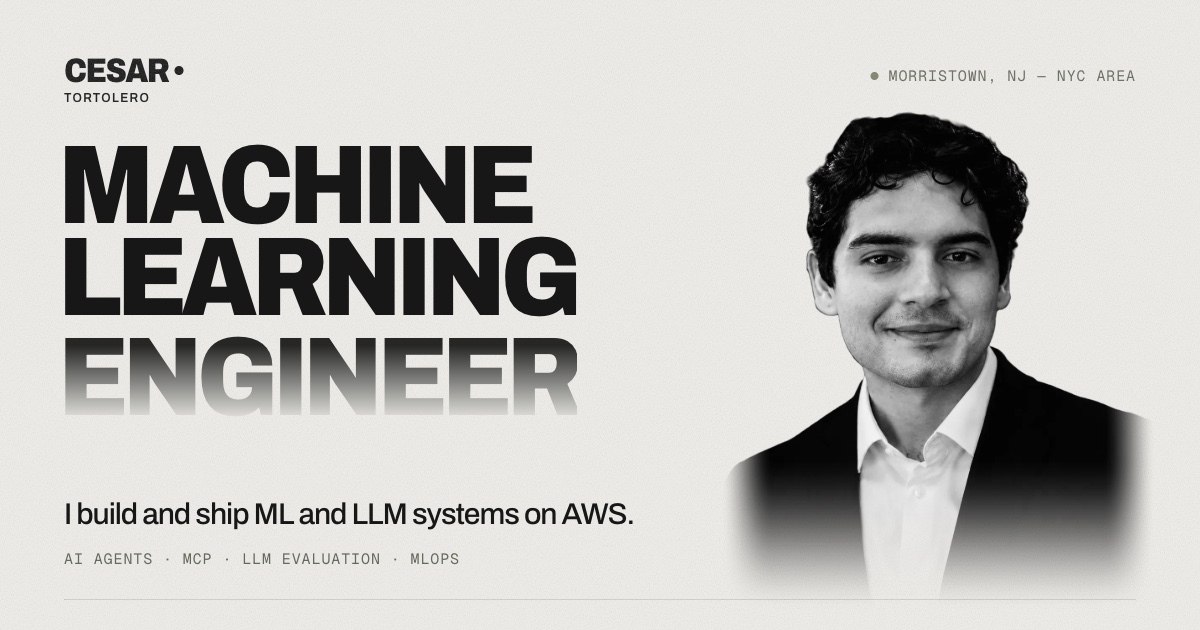
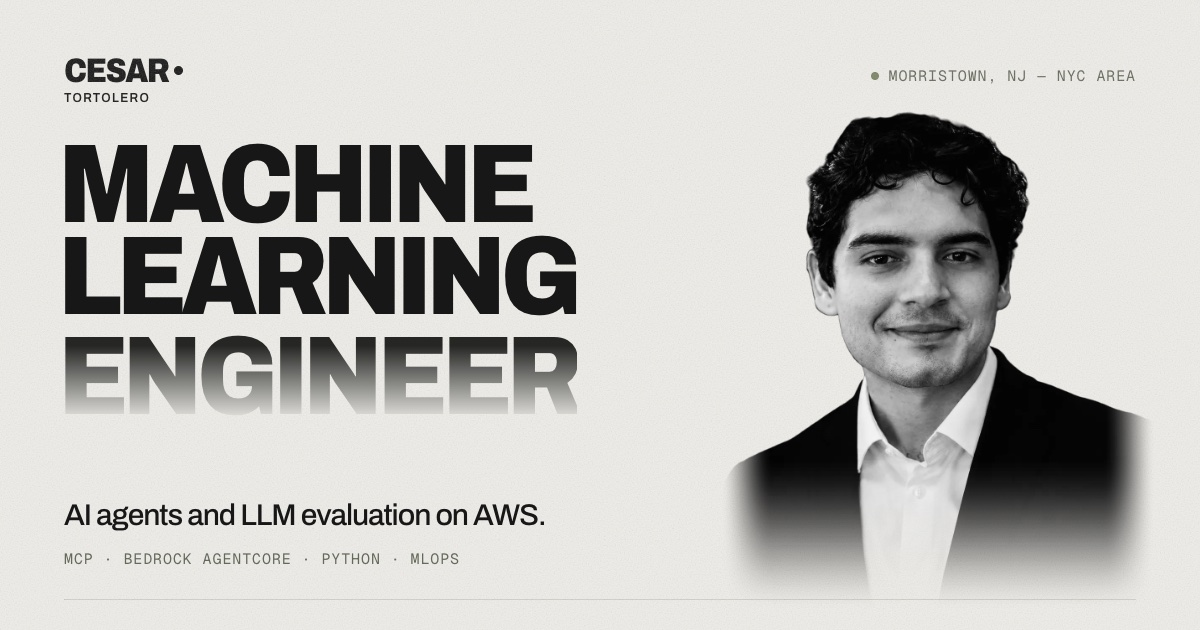
Ship one stylesheet per page from the build, stop the About window and restored scroll positions from shifting the layout on deep links and reloads, and refresh the social card for the new hero

diff --git a/web/index.html b/web/index.html
@@ -3,7 +3,7 @@
 <head>
   <meta charset="UTF-8">
   <meta name="viewport" content="width=device-width, initial-scale=1">
-  <meta http-equiv="Content-Security-Policy" content="default-src 'self'; script-src 'self' 'sha256-G8slze0J/lL2JyIAFipFdQe1FVn2ZNm4U1dTs9klNOc='; style-src 'self'; img-src 'self' data:; font-src 'self'; connect-src 'self'; manifest-src 'self'; media-src 'none'; object-src 'none'; frame-src 'none'; worker-src 'none'; base-uri 'none'; form-action 'none'; upgrade-insecure-requests">
+  <meta http-equiv="Content-Security-Policy" content="default-src 'self'; script-src 'self' 'sha256-LPlC6JOsCNvlvxcLDI4qjZ2AFWltlvfHGk8cS8O43sg='; style-src 'self'; img-src 'self' data:; font-src 'self'; connect-src 'self'; manifest-src 'self'; media-src 'none'; object-src 'none'; frame-src 'none'; worker-src 'none'; base-uri 'none'; form-action 'none'; upgrade-insecure-requests">
   <meta name="referrer" content="strict-origin-when-cross-origin">
   <meta name="theme-color" content="#eeede8">
   <meta name="description" content="Cesar Tortolero is a Machine Learning Engineer in Morristown, NJ (NYC area) who builds AI agents, MCP integrations and LLM evaluation on AWS Bedrock AgentCore, plus serverless Python and MLOps.">
@@ -16,7 +16,7 @@
   <meta property="og:image:type" content="image/jpeg">
   <meta property="og:image:width" content="1200">
   <meta property="og:image:height" content="630">
-  <meta property="og:image:alt" content="Cesar Tortolero, Machine Learning Engineer. Builds and ships ML and LLM systems on AWS.">
+  <meta property="og:image:alt" content="Cesar Tortolero, Machine Learning Engineer. AI agents and LLM evaluation on AWS.">
   <meta property="profile:first_name" content="Cesar">
   <meta property="profile:last_name" content="Tortolero">
   <meta name="twitter:card" content="summary_large_image">
@@ -52,17 +52,27 @@
   // tour plays once (entrance.js marks the visit "seen" as it starts), never
   // under reduced motion, on a deep link or on back/forward.
   // app.js follows the decision recorded in data-tour.
+  // A reload or back/forward puts the old scroll position back before app.js
+  // has laid the page out (the explorer, charts and timeline change section
+  // heights), which read as a layout shift: the page stays hidden
+  // (html[data-restoring], styles.css) until app.js is done, 1.5 s at most.
   (() => {
     const root = document.documentElement;
     let play = false;
+    let restoring = false;
     try {
+      const nav = performance.getEntriesByType?.('navigation')?.[0];
+      restoring = nav?.type === 'reload' || nav?.type === 'back_forward';
       const key = 'cesar:portfolio:agentic-intro:v1';
       const seen = localStorage.getItem(key) === 'seen';
       localStorage.setItem(`${key}:probe`, '1'); localStorage.removeItem(`${key}:probe`);
-      const nav = performance.getEntriesByType?.('navigation')?.[0];
       play = !(seen || matchMedia('(prefers-reduced-motion: reduce)').matches || (location.hash && location.hash !== '#home') || nav?.type === 'back_forward');
     } catch { play = false; }
     root.dataset.tour = play ? 'play' : 'skip';
+    if (restoring && !play) {
+      root.dataset.restoring = '';
+      setTimeout(() => delete root.dataset.restoring, 1500);
+    }
     if (!play) return;
     root.classList.add('agentic-pending');
     const link = document.createElement('link'); link.rel = 'modulepreload'; link.href = './entrance.js'; document.head.append(link);

diff --git a/tests/entrance-loading.test.js b/tests/entrance-loading.test.js
@@ -47,9 +47,13 @@ function runHeadScript(source, { seen, reducedMotion, storageAvailable, hash, na
   const root = { dataset: {}, classList: { add: name => classes.add(name) } };
   const document = { documentElement: root, createElement: () => ({}), head: { append: node => appended.push(node) } };
   const performance = { getEntriesByType: () => (navigationType ? [{ type: navigationType }] : []) };
-  new Function('document', 'localStorage', 'matchMedia', 'location', 'performance', source)(
-    document, localStorage, () => ({ matches: reducedMotion }), { hash }, performance);
-  return { tour: root.dataset.tour, pending: classes.has('agentic-pending'), preload: appended.map(node => node.href), stored: [...store.keys()] };
+  const timers = [];
+  const setTimeout = (callback, ms) => timers.push({ callback, ms });
+  new Function('document', 'localStorage', 'matchMedia', 'location', 'performance', 'setTimeout', source)(
+    document, localStorage, () => ({ matches: reducedMotion }), { hash }, performance, setTimeout);
+  const restoring = 'restoring' in root.dataset;
+  timers.forEach(timer => timer.callback());
+  return { tour: root.dataset.tour, pending: classes.has('agentic-pending'), preload: appended.map(node => node.href), stored: [...store.keys()], restoring, cleared: !('restoring' in root.dataset), waits: timers.map(timer => timer.ms) };
 }
 
 test('the inline head script mirrors shouldPlayEntrance exactly, reading the same seen flag', async () => {
@@ -65,7 +69,16 @@ test('the inline head script mirrors shouldPlayEntrance exactly, reading the sam
     assert.deepEqual(result.preload, play ? ['./entrance.js'] : [], JSON.stringify(input));
     // The probe leaves nothing behind; the flag itself is entrance.js's to write.
     assert.deepEqual(result.stored, input.seen ? [KEY] : [], JSON.stringify(input));
+    // A reload or back/forward stays hidden until app.js has laid the page out (1.5 s at most).
+    const restores = !play && (input.navigationType === 'reload' || input.navigationType === 'back_forward');
+    assert.equal(result.restoring, restores, `${JSON.stringify(input)}: hidden only while a restored scroll position waits for app.js`);
+    assert.deepEqual(result.waits, restores ? [1500] : [], JSON.stringify(input));
+    assert.equal(result.cleared, true, `${JSON.stringify(input)}: never hidden for good`);
   }
+  const styles = await read('styles.css');
+  assert.match(styles, /html\[data-restoring\] body \{ visibility: hidden; \}/);
+  const appSource = await read('app.js');
+  assert.match(appSource, /bootEntrance\(document, window\);\n[^\n]*\n  delete document\.documentElement\.dataset\.restoring;/, 'app.js shows the page once it is laid out');
   // One key everywhere: entrance.js writes it, app.js and the head script read it.
   const entrance = await read('entrance.js');
   const app = await read('app.js');
@@ -194,7 +207,7 @@ test('app.js imports entrance.js only dynamically', async () => {
   assert.doesNotMatch(app, /everyVisit/);
 });
 
-// Deep links and reduced motion must not download the 177 KB tour script.
+// Repeat visits, deep links and reduced motion must not download the tour script (about 265 KB).
 test('the static module graph from app.js does not include entrance.js', async () => {
   const seen = new Set();
   const visit = async file => {

diff --git a/web/about-scenes.css b/web/about-scenes.css
@@ -215,7 +215,8 @@
       /* It overlaps the top of #introduction, whose links and text must stay reachable. */
       pointer-events: none;
     }
-    :root[data-tour] #about .about-scene { position: sticky; top: 0; height: 100svh; }
+    /* A size container, so the window below can be sized and placed in the scene's own units (cqw, cqh). */
+    :root[data-tour] #about .about-scene { position: sticky; top: 0; height: 100svh; container-type: size; }
     /* The field is cut away inside the window (even-odd hole, a hair inside its rounded corners), so the window
        shows #introduction behind it as its own ground fades. */
     :root[data-tour] #about .about-field {
@@ -229,9 +230,14 @@
     :root[data-tour] #about .about-flow { animation: none; transition: none; transform: scale(calc(1.04 + var(--about-p) * .16)); }
     /* The meta and foot lines leave before the opening window reaches them. */
     :root[data-tour] #about .about-transition-meta, :root[data-tour] #about .about-transition-foot { opacity: calc(1 - var(--o) * 2.4); }
+    /* The window grows from the panel's box to the scene's. Its layout box stays at the scene's top-left and only
+       changes size; translate centres it. Moving its top-left by layout (inset) counted as a layout shift on every
+       frame of the opening, while scrolling or landing on a deep link (CLS ~0.37 at 1280 x 800). The size is written
+       as panel + share of the rest: Chrome resolved "100cqw - 2 * (100cqw - w0) * (1 - oe) / 2" to 0 when oe was 0. */
     :root[data-tour] #about .about-window {
-      display: block; position: absolute; z-index: 2;
-      inset: calc((100% - var(--h0)) * (1 - var(--oe)) / 2) calc((100% - var(--w0)) * (1 - var(--oe)) / 2);
+      display: block; position: absolute; z-index: 2; top: 0; left: 0;
+      width: calc(var(--w0) + (100cqw - var(--w0)) * var(--oe)); height: calc(var(--h0) + (100cqh - var(--h0)) * var(--oe));
+      translate: round(calc((100cqw - var(--w0)) * (1 - var(--oe)) / 2), 1px) round(calc((100cqh - var(--h0)) * (1 - var(--oe)) / 2), 1px);
       border: 1px solid rgb(255 255 255 / calc(.196 * (1 - var(--e))));
       border-radius: calc(var(--r0) * (1 - var(--oe)));
       box-shadow: 0 35px 70px rgb(0 0 0 / calc(.53 * (1 - var(--o))));

diff --git a/scripts/og-card.html b/scripts/og-card.html
@@ -5,7 +5,8 @@
   from the repo),
   opening http://127.0.0.1:4185/scripts/og-card.html at a 1200x630 viewport with
   device scale factor 1, taking a PNG screenshot, and converting it with
-  `sips -s format jpeg -s formatOptions 86 og-card.png --out web/assets/og-card.jpg`.
+  `sips -s format jpeg -s formatOptions 85 og-card.png --out web/assets/og-card.jpg`
+  (last regenerated November 12, 2026, after the hero was reframed).
 -->
 <html lang="en">
 <head>
@@ -43,8 +44,8 @@
   <h1><span>Machine</span><span>Learning</span><span class="fade">Engineer</span></h1>
   <div class="portrait"><img src="../web/assets/cesar-portrait-1040.webp" alt="" width="1040" height="1247"></div>
   <div class="intro">
-    <p>I build and ship ML and LLM systems on AWS.</p>
-    <div class="mono">AI agents · MCP · LLM evaluation · MLOps</div>
+    <p>AI agents and LLM evaluation on AWS.</p>
+    <div class="mono">MCP · Bedrock AgentCore · Python · MLOps</div>
   </div>
   <div class="rule"></div>
 </body>

diff --git a/web/projects/agent-workflow.html b/web/projects/agent-workflow.html
@@ -18,7 +18,7 @@
   <meta property="og:image:type" content="image/jpeg">
   <meta property="og:image:width" content="1200">
   <meta property="og:image:height" content="630">
-  <meta property="og:image:alt" content="Cesar Tortolero, Machine Learning Engineer. Builds and ships ML and LLM systems on AWS.">
+  <meta property="og:image:alt" content="Cesar Tortolero, Machine Learning Engineer. AI agents and LLM evaluation on AWS.">
   <meta name="twitter:card" content="summary_large_image">
   <meta name="twitter:title" content="Multi-Agent Workflow: AI agents with MCP tools — Cesar Tortolero">
   <meta name="twitter:description" content="Multi-Agent Workflow, a project by Cesar Tortolero: specialist coding agents that implement, review and verify, read-only tools for CI and source-control context, an approval gate for production, and a searchable knowledge base compiled from work sessions.">

diff --git a/web/styles.css b/web/styles.css
@@ -36,6 +36,8 @@
   /* Guard against sideways scrolling; clip (not hidden) keeps the sticky stages working. */
   html, body { overflow-x: clip; }
   html { scroll-behavior: smooth; scroll-padding-top: var(--header-clear); scrollbar-color: #9a9d90 var(--paper); }
+  /* A reload or back/forward is hidden until app.js has laid the page out (see the inline <head> script). */
+  html[data-restoring] body { visibility: hidden; }
   body { background: var(--paper); color: var(--ink); font-family: var(--font-sans); font-weight: 400; font-stretch: 100%; font-kerning: normal; word-spacing: .035em; -webkit-font-smoothing: antialiased; overflow-wrap: break-word; }
   ::selection { background: var(--green); color: var(--ink); }
   .visually-hidden { position: absolute; width: 1px; height: 1px; padding: 0; margin: -1px; overflow: hidden; clip: rect(0 0 0 0); white-space: nowrap; border: 0; }

diff --git a/web/projects/thoughts-to-text.html b/web/projects/thoughts-to-text.html
@@ -18,7 +18,7 @@
   <meta property="og:image:type" content="image/jpeg">
   <meta property="og:image:width" content="1200">
   <meta property="og:image:height" content="630">
-  <meta property="og:image:alt" content="Cesar Tortolero, Machine Learning Engineer. Builds and ships ML and LLM systems on AWS.">
+  <meta property="og:image:alt" content="Cesar Tortolero, Machine Learning Engineer. AI agents and LLM evaluation on AWS.">
   <meta name="twitter:card" content="summary_large_image">
   <meta name="twitter:title" content="Thoughts-to-Text BCI: EEG decoding research — Cesar Tortolero">
   <meta name="twitter:description" content="Thoughts-to-Text BCI: Cesar Tortolero's Kennesaw State University research as lead researcher, decoding the EEG of attempted handwriting into text one character at a time. Presented at NCUR and in two KSU symposium presentations in 2022.">

diff --git a/web/projects/companion-chatbot.html b/web/projects/companion-chatbot.html
@@ -18,7 +18,7 @@
   <meta property="og:image:type" content="image/jpeg">
   <meta property="og:image:width" content="1200">
   <meta property="og:image:height" content="630">
-  <meta property="og:image:alt" content="Cesar Tortolero, Machine Learning Engineer. Builds and ships ML and LLM systems on AWS.">
+  <meta property="og:image:alt" content="Cesar Tortolero, Machine Learning Engineer. AI agents and LLM evaluation on AWS.">
   <meta name="twitter:card" content="summary_large_image">
   <meta name="twitter:title" content="Companionship Chatbot: LLM with sentiment analysis — Cesar Tortolero">
   <meta name="twitter:description" content="Companionship Chatbot by Cesar Tortolero: an LLM companion chatbot for college students whose sentiment module names the emotion in each message. First Place, Undergraduate Capstone, KSU C-Day, Spring 2024.">

diff --git a/web/lab/sentiment-eval.html b/web/lab/sentiment-eval.html
@@ -18,7 +18,7 @@
   <meta property="og:image:type" content="image/jpeg">
   <meta property="og:image:width" content="1200">
   <meta property="og:image:height" content="630">
-  <meta property="og:image:alt" content="Cesar Tortolero, Machine Learning Engineer. Builds and ships ML and LLM systems on AWS.">
+  <meta property="og:image:alt" content="Cesar Tortolero, Machine Learning Engineer. AI agents and LLM evaluation on AWS.">
   <meta name="twitter:card" content="summary_large_image">
   <meta name="twitter:title" content="Evaluation lab: two sentiment models on public data — Cesar Tortolero">
   <meta name="twitter:description" content="Naive Bayes and logistic regression on 3,000 public review sentences: where each one fails, and what a threshold costs. A public reproduction, not the Companionship Chatbot model.">

diff --git a/web/projects/barking-village.html b/web/projects/barking-village.html
@@ -18,7 +18,7 @@
   <meta property="og:image:type" content="image/jpeg">
   <meta property="og:image:width" content="1200">
   <meta property="og:image:height" content="630">
-  <meta property="og:image:alt" content="Cesar Tortolero, Machine Learning Engineer. Builds and ships ML and LLM systems on AWS.">
+  <meta property="og:image:alt" content="Cesar Tortolero, Machine Learning Engineer. AI agents and LLM evaluation on AWS.">
   <meta name="twitter:card" content="summary_large_image">
   <meta name="twitter:title" content="Barking Village: full-stack dog-care operations app — Cesar Tortolero">
   <meta name="twitter:description" content="Barking Village by Cesar Tortolero: a full-stack dog-care operations project bringing staff workflows into one place: care sessions, daily planning, room status and dog records.">

diff --git a/web/app.js b/web/app.js
@@ -1,4 +1,4 @@
-// entrance.js (the build tour, ~177 KB) is loaded on demand: see bootEntrance().
+// entrance.js (the build tour, about 265 KB) is loaded on demand, only when the tour plays (a first visit) or is asked for (Replay, the hero pill): see bootEntrance().
 import { initMotion } from './motion.js';
 import { initHeader } from './header.js';
 import { initExperience } from './experience.js';
@@ -341,4 +341,6 @@ if (typeof window !== 'undefined' && typeof document !== 'undefined') {
   try { initHomeCharts(document, window); } catch (error) { console.error(error); }
   previews = loadWorkPreviews(document, window);
   bootEntrance(document, window);
+  // The page is laid out: a reload or back/forward can be shown (inline <head> script).
+  delete document.documentElement.dataset.restoring;
 }

diff --git a/web/projects/voicelab.html b/web/projects/voicelab.html
@@ -18,7 +18,7 @@
   <meta property="og:image:type" content="image/jpeg">
   <meta property="og:image:width" content="1200">
   <meta property="og:image:height" content="630">
-  <meta property="og:image:alt" content="Cesar Tortolero, Machine Learning Engineer. Builds and ships ML and LLM systems on AWS.">
+  <meta property="og:image:alt" content="Cesar Tortolero, Machine Learning Engineer. AI agents and LLM evaluation on AWS.">
   <meta name="twitter:card" content="summary_large_image">
   <meta name="twitter:title" content="VoiceLab: writing-analysis prototype — Cesar Tortolero">
   <meta name="twitter:description" content="VoiceLab by Cesar Tortolero: a local prototype for explainable writing-signal analysis and meaning-preserving revision that keeps text on the local device.">
